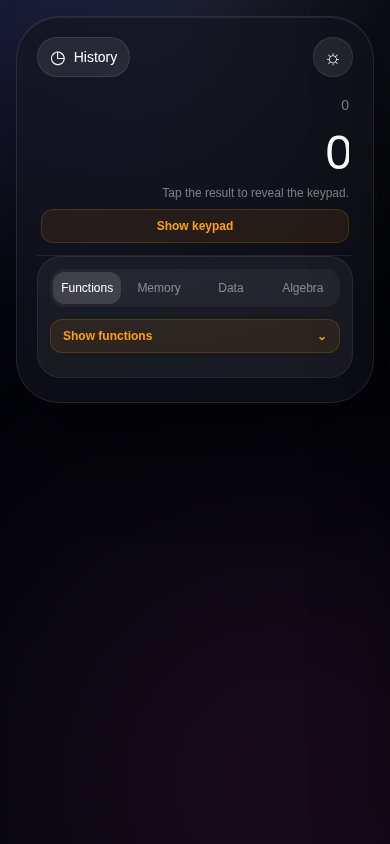
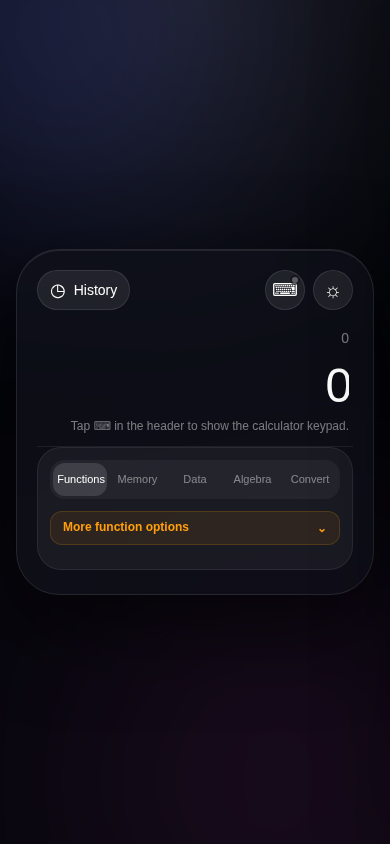
Refresh mobile documentation

Changed region(s): [[0.0923, 0.154, 0.8923, 0.6469], [0.1231, 0.0616, 0.3077, 0.0924], [0.8308, 0.0616, 0.8615, 0.0924]]

diff --git a/README.md b/README.md
@@ -12,9 +12,9 @@ The desktop workspace keeps the expression display, the full scientific-function
 
 ### Compact mobile workspace
 
-![Compact mobile calculator showing the History control, result display, Show keypad button, and Show functions control.](https://raw.githubusercontent.com/khalidhasan-m/scientific-calculator/main/docs/images/mobile-workspace.png)
+![Compact mobile calculator showing the History control, header keyboard toggle, result display, and More function options control.](https://raw.githubusercontent.com/khalidhasan-m/scientific-calculator/main/docs/images/mobile-workspace.png)
 
-On compact screens, the keypad remains hidden until the result display or **Show keypad** control is used. This leaves the scientific workspace reachable without crowding the initial view.
+On portrait phones and tablets, the header **⌨** control makes calculator-keypad state clear: an orange highlight and white status dot mean it is on, while the neutral control means it is off. The **More function options** control reveals three Function rows at a time; the remaining rows stay available by scrolling that panel. When a text-entry field opens the device system keyboard, the calculator keypad hides automatically. Activating the calculator keypad dismisses the device keyboard.
 
 ## Highlights
 
@@ -27,7 +27,7 @@ On compact screens, the keypad remains hidden until the result display or **Show
 | Algebra | Complex values and visual 2×2 / 3×3 matrix and 2D / 3D vector editors. |
 | Conversions | Offline temperature and length conversions plus on-demand live currency quotes with session fallback. |
 | History | Browser-persisted calculation tape; tap an entry to restore its expression or press and hold to copy its result. |
-| Responsive interaction | Display-triggered mobile keypad, a compact scientific toggle, desktop keyboard shortcuts, and light/dark themes. |
+| Responsive interaction | Header-controlled mobile keypad with visible state, scrollable three-row portrait Function options, desktop keyboard shortcuts, and light/dark themes. |
 
 ## Installation
 
